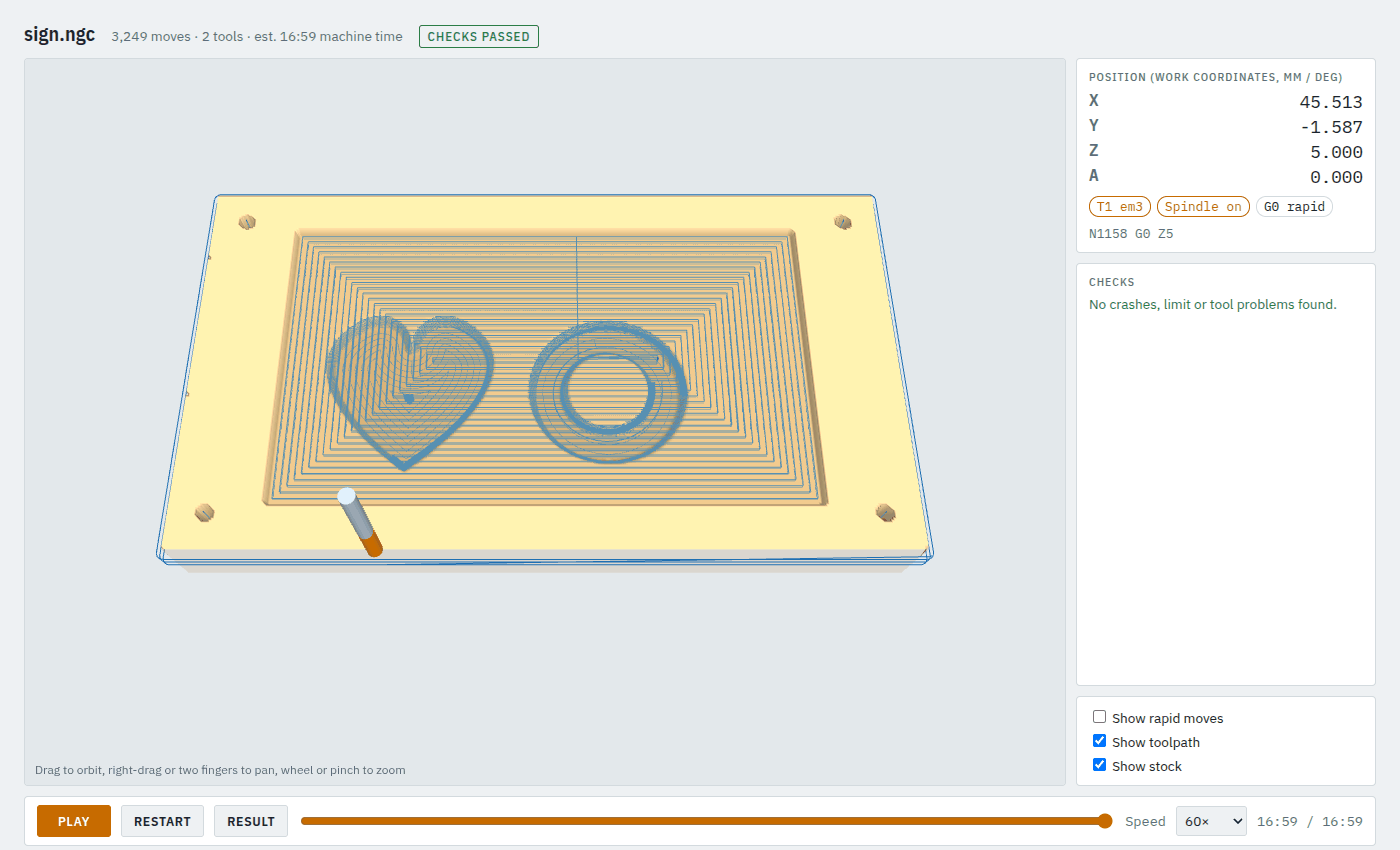
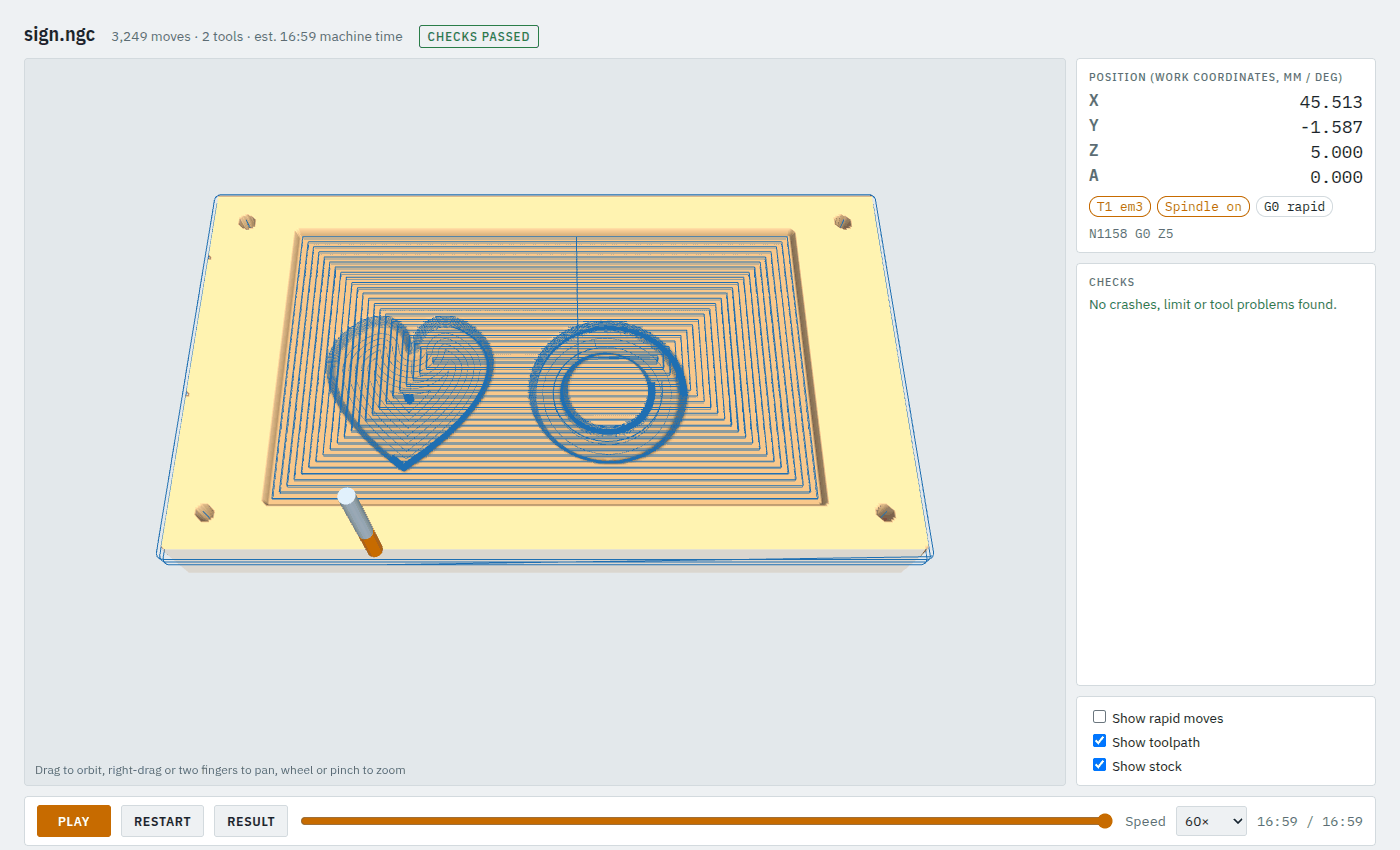
docs: tutorials and manual follow today's changes; screenshots retaken
Tooltips, the inlay's Clear tool field, import placement and the
off-stock message, tab height counted from the bottom of the cut, and
how the viewer shows depth, holes and tabs. Screenshots retaken with the
new viewer and form.

Changed region(s): [[0.1843, 0.2753, 0.6143, 0.5812]]

diff --git a/docs/MANUAL.md b/docs/MANUAL.md
@@ -171,6 +171,9 @@ Typical loop: change a value, Ctrl+R, look, repeat; Export once at the end.
 }
 ```
 
+- **Placement:** a drawing keeps its own coordinates unless `fit_origin` moves its lower-left corner.
+  SVG Y runs downwards, so without it an SVG lands below Y0, off the stock: the check refuses that and
+  suggests a `fit_origin`. The app's import sets one that centres the drawing on the stock.
 - **Closed contours only.** Nested contours become holes (a ring, a letter O). DXF pieces are joined
   end to end within `join_tolerance` (0.01 mm); a contour that still does not close is an error that
   says where. `"ignore_open": true` skips open pieces instead.
@@ -263,6 +266,11 @@ floor. The V-bit must cut `pocket_depth - glue_gap + surface_gap` deep at its fu
 - **Plug board**: by default the flange is cleared over the whole board (`clear_tool` runs off its
   edges), so nothing needs trimming. With `"plug_margin": 10` only 10 mm around the design is cleared.
   Trim the board inside that flange before gluing (the report says so).
+- **Narrow areas**: wherever the pocket floor or the plug's flange is too narrow or too tight a corner
+  for `clear_tool` (thin letter strokes, gaps between letters), the V-bit cuts it flat with its tip in
+  close passes, leaving ridges of at most 0.1 mm. The report says how much area that is (`the V-bit cuts
+  N mm2 of flat floor that em3 cannot reach`). On fine lettering that can be most of the floor and take
+  a while; a smaller clear tool shortens it.
 - **Corners**: the default `"method": "medial"` (centre-cutting V-bit, plunges) gives sharp corners on
   both parts. `"offset"` rounds sharp corners off, which keeps the plug from seating.
 - **The fit check**: with `"fit_with"` on the plug, `camcore check` simulates both programs, turns the
@@ -485,7 +493,7 @@ Every operation: `op`, `tool`, and `shape` / `model` / `points`; optional `id`, 
 
 **profile**: `depth`, `step_down`, `side` (`"outside"`; `"inside"`, `"on"`), `feed` (1000),
 `plunge` (300), `safe_z` (5), `climb` (true), `top_z` (0), `entry` (`"ramp"`), `ramp_angle` (3),
-`tabs` (`{"count" | "spacing" | "at", "width", "height", "ramp_angle"}`), `lead_radius`
+`tabs` (`{"count" | "spacing" | "at", "width", "height", "ramp_angle"}`; `height` above the bottom of the cut, so add any overcut), `lead_radius`
 
 **pocket**: `depth`, `step_down`, `stepover_ratio` (0.4), `method` (`"offset"`; `"adaptive"`),
 `feed` (1000), `plunge` (300), `safe_z` (5), `climb` (true), `top_z` (0), `entry` (`"helix"`; `"ramp"`,
@@ -567,6 +575,7 @@ tool's `gauge_length`.
 
 | Message | What to do |
 |---|---|
+| `shape ... is completely off the stock` | set the shape's `fit_origin` (the message suggests one); a part off the stock is a note |
 | `COLLISION: collet nut hits chuck ...` | more stock out of the jaws (lower `x[0]` or `chuck_hold`), a longer tool (`gauge_length`), or keep the cut further from the chuck |
 | `COLLISION: ... hits the stock` | the spindle comes down beside a deep cut: use a longer tool or cut less deep |
 | `rotary stock has no "chuck_hold"` | add it to the stock (mm held in the jaws) |

diff --git a/docs/tutorials/02-desktop-app.md b/docs/tutorials/02-desktop-app.md
@@ -27,8 +27,9 @@ The window has two halves:
 
 1. In the **Operations** tab, click **#2: vcarve art with v60**. Its form opens below the list.
 2. Look at the **Parameters**. Fields with black text are set in the job. **Grey** text in an empty field
-   is the value the operation gets anyway. Hover over it to see where from: the tool library's data for
-   the job's material, the job's `defaults`, or the operation's built-in default.
+   is the value the operation gets anyway. **Hover** over a parameter to see what it does and where the
+   grey value comes from: the tool library's data for the job's material, the job's `defaults`, or the
+   operation's built-in default. Buttons, tabs and the job settings explain themselves the same way.
 3. Change **max_depth** from `3` to `2.5`. The window title gets a `*`: the job has unsaved changes.
 
 To build the cutting order:
@@ -71,7 +72,8 @@ The usual loop: change a value, Ctrl+R, look, repeat.
 ![The Shapes & models tab with the SVG drawing selected](img/app_shapes.png)
 
 - **Rectangle**, **Circle**: add a shape and edit its numbers in the JSON box below the list.
-- **SVG / DXF…**: import a drawing ([tutorial 3](03-own-drawings-and-cutouts.md)).
+- **SVG / DXF…**: import a drawing ([tutorial 3](03-own-drawings-and-cutouts.md)). It is placed in
+  the middle of the stock (`fit_origin` in the JSON box); move it by changing those numbers.
 - **STL model…**: add a 3D model for 3D or rotary operations ([tutorials 7](07-3d-from-stl.md) and
   [10](10-rotary-from-stl.md)).
 - **Rename…** also renames the shape in every operation that uses it.

diff --git a/docs/tutorials/03-own-drawings-and-cutouts.md b/docs/tutorials/03-own-drawings-and-cutouts.md
@@ -31,8 +31,12 @@ basic shapes, transforms). Before you export:
 sits 10 mm in from the stock's front-left corner. Each layer has its own lower-left corner, so the
 recess gets its own `fit_origin` to land where it is in the drawing.
 
-In the app: **Shapes & models → SVG / DXF…**, pick the file, then set `layers` and `fit_origin` in the
-JSON box.
+Without `fit_origin` a drawing keeps its own coordinates. SVG counts Y downwards, so an SVG then
+lands below the stock and the check stops with "shape ... is completely off the stock" and a
+suggested `fit_origin`.
+
+In the app: **Shapes & models → SVG / DXF…**, pick the file. The app sets a `fit_origin` that centres
+the drawing on the stock; change it and set `layers` in the JSON box.
 
 ## Step 3: the operations
 
@@ -49,7 +53,9 @@ JSON box.
   aluminium data for `em3`. Nothing else needs to be set.
 - **`depth: 6.3`** goes 0.3 mm past the 6 mm stock so the part comes free cleanly.
 - **`lead_radius: 3`** starts each pass on a small arc in the waste, so there is no mark on the part edge.
-- **`tabs`**: three tabs, 5 mm wide, 1 mm high, left standing to hold the part until you cut it free.
+- **`tabs`**: three tabs, 5 mm wide, left standing to hold the part until you cut it free. The `height`
+  counts from the bottom of the cut, not from the bottom of the stock: cut to 6.3 mm in 6 mm stock, a
+  1 mm tab is 0.7 mm of material. Add the overcut to the height you want.
 
 Look at the plan from above without running a check:
 

diff --git a/docs/tutorials/06-inlay.md b/docs/tutorials/06-inlay.md
@@ -37,7 +37,10 @@ The plug job (insert board, 120 x 80 x 12 mm) differs in the stock, `part` and `
   - `glue_gap`: room for glue between the plug face and the pocket floor (0.5 mm).
   - `surface_gap`: the plug's flange stays this far above the base surface (1.5 mm), so clamp
     pressure goes into the walls, not the floor.
-- **`clear_tool`** clears the pocket floor and the plug's flange flat.
+- **`clear_tool`** clears the pocket floor and the plug's flange flat. Where it does not fit (thin
+  strokes, gaps between letters), the V-bit cuts those flat areas itself. An inlay always needs one. In the
+  app it is the **Clear tool** field right under **Shape** in the operation's form, and **Fit with**
+  below it names the pocket job on the plug.
 - The V-bit must reach `pocket_depth - glue_gap + surface_gap` (here 6 mm) at its full diameter, or the
   job is refused.
 

diff --git a/docs/tutorials/13-when-a-check-fails.md b/docs/tutorials/13-when-a-check-fails.md
@@ -67,6 +67,7 @@ again after each fix rather than changing several things at once.
 
 | Message | Usual cause and fix |
 |---|---|
+| `shape ... is completely off the stock` | the drawing keeps its own coordinates: set `fit_origin` on the shape (the message suggests one that centres it) |
 | `CRASH: rapid move into material` | `safe_z` too low, or an operation's `top_z` below where the material really starts |
 | `... is outside machine travel` | the part does not fit where G54 puts it; on rotary jobs the swing may be too large |
 | `T.. plunges into material but is not marked center_cutting` | use `"entry": "ramp"` or `"helix"`, or mark the tool `center_cutting` if it really is |

diff --git a/docs/tutorials/01-first-job.md b/docs/tutorials/01-first-job.md
@@ -86,6 +86,10 @@ and the list of problems (here: none).
 
 ![The finished stock without toolpaths](img/first_viewer_stock.png)
 
+The deeper a cut, the darker it is, down to the bottom of the stock. Where a cut goes all the way
+through (the outside profile here), the viewer shows a hole: look straight down to see through a narrow
+slot. Tabs left in such a slot show up as places where it is closed.
+
 ## Step 5: change something
 
 Make a copy so the example stays as it is, and edit the copy:
